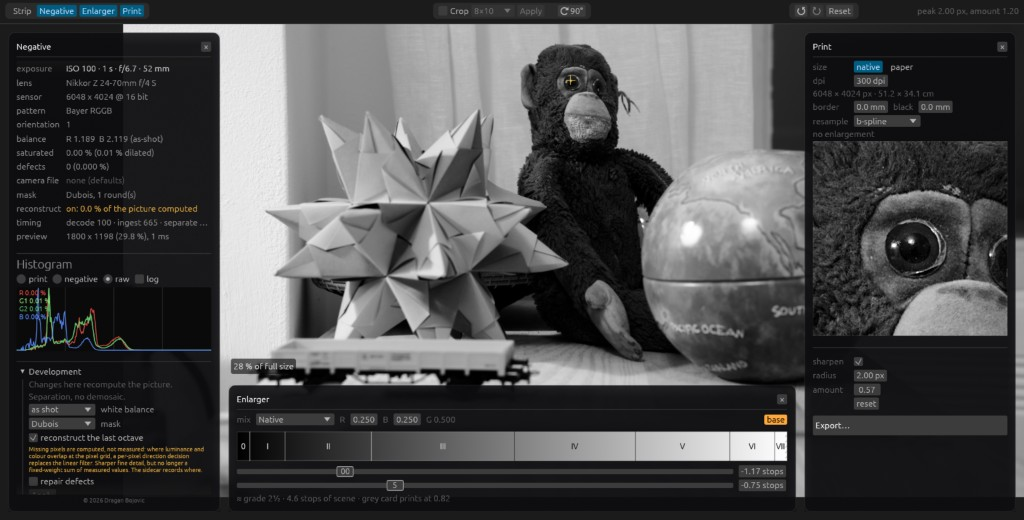
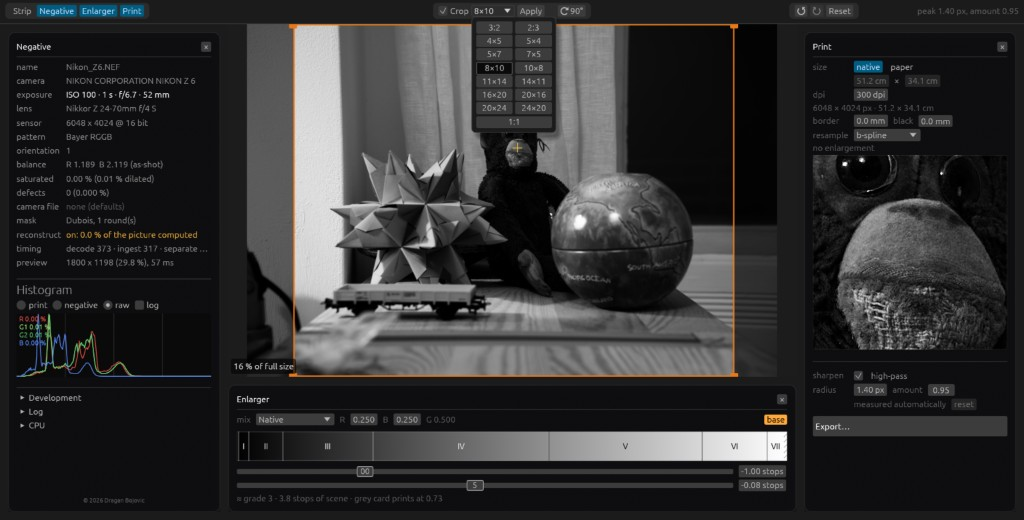
Show the darkroom with the crop table open.

diff --git a/README.md b/README.md
@@ -16,7 +16,7 @@ It is for analog photographers and fine-art printers who decide the print on the
 
 The name is the beach at Mimizan, where the idea came up watching the surf: separate the waves, and keep the picture underneath. Lab is the darkroom.
 
-![Mimizan Lab with a file open: the negative on the left, the print in the middle, the enlarger below, the sheet and its 1:1 box on the right](docs/gui.jpg)
+![Mimizan Lab with a file open: the negative on the left, the print in the middle with the crop table, the enlarger below, the sheet and its 1:1 box on the right](docs/gui.jpg)
 
 ## The negative
 
